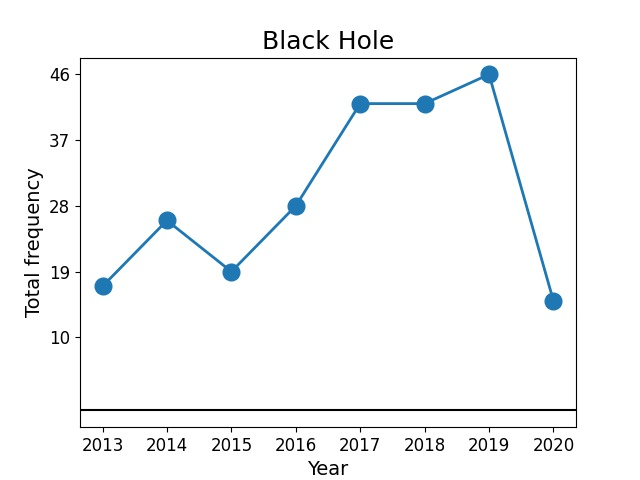
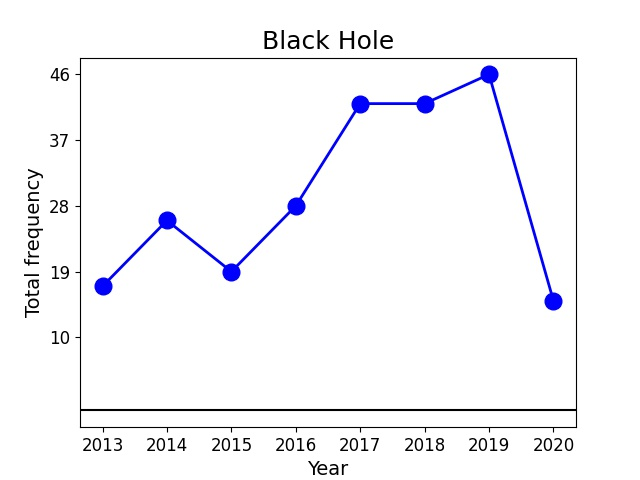
word cloud, bar chart, etc added

diff --git a/templates/trends.html b/templates/trends.html
@@ -32,22 +32,69 @@ body {
 <div class="col-sm-10 col-sm-offset-1">
 	<h2> Problem statement</h2>
 	   <body>
-	    <p>This project is geared towards young researchers such as undergraduates motivated to pursue graduate school. Selecting a research topic which might lead to a thesis can be a daunting challenge. There are many factors to be considered. While personal interests and experience matter, a balance must be struck with the currently available opportunities and future promise in any particular field. Within a field, being aware of rising trends, for e.g. 'Machine learning' in Physics, is also extremely important.
+	    <p>
+This project is geared towards young researchers such as undergraduates motivated to pursue graduate school. Undergraduate research experience is a major factor in graduate admissions. However, as a beginner, it is extremely challenging for an undergrad to identify the broad research topics and the fastest growing areas in any field he/she is interested in. Moreover, simply going through publication databases isn't a viable solution: every year thousands of papers are published in every research area in physics!
 </p>
 <p>
-<img src="https://www.meme-arsenal.com/memes/c098fd75956a601eff04312e8e8f133d.jpg" style="width:50%">
+This project attempts to answer some of these problems. I have identified and compared the buzzwords of two different years which gives us an indication of the rising trends in physics. Using topic modelling, I have identified broad research topics as well as sub-topics contained in them. An interested reader can not only get a clear view of the research landscape in any broad are in physics but also find out some of the specific questions that belong to any field. 
 </p>
-<h2>Solution</h2>
-<p>Using the <a href="https://arxiv.org">arxiv</a> database for physics, I have compared the buzz words in all of physics between two different years. We can see some emerging trends such as 'neural networks' and 'machine learning' as well as some topics that have stayed both stable and prolific over the years such as 'optics'.
+<h2>Rising Trends in Physics</h2>
+<p>Using the <a href="https://arxiv.org">arxiv</a> database for physics, I have compared the buzzwords in all areas of physics between two different years, 2010 (on the left) and 2020 (on the right). To create this comparison, I analyzed ~7400 publication titles from 2010 and ~17,000 from 2020. We can see some emerging trends such as 'neural networks' and 'machine learning' as well as some topics that have stayed both stable and prolific over the years such as 'optics'. This is an indication that machine learning is gaining popularity in physics and is a very useful skill to possess. Notice that <strong>COVID</strong> was also talked about frequently by physicists in 2020. </p>
+        <div class="row">
+         <div class="column">
+		<img src="../static/folder/2010_cloud.jpg" alt="2010_cloud" style="width:100%"/>
+  </div>
+  <div class="column">
+                <img src="../static/folder/2020_cloud.jpg" alt="2020_cloud" style="width:100%"/>
+         </div>
+    </div>
+
+</body>
+<p> In 2010, the top 10 most used words were:
+<br>
+'dynamic',
+ 'quantum',
+ 'network',
+ 'optical',
+ 'plasma',
+ 'theory',
+ 'state',
+ 'simulation',
+ 'electron',
+ 'particle'
 </p>
+<p> In 2020, the top 10 most used words are: 
+<br>
+'dynamic',
+ 'quantum',
+ 'network',
+ 'optical',
+ 'simulation',
+ 'flow',
+ 'COVID',
+ 'state',
+ 'Modeling',
+ 'Neural Network'
+</p>
+<h2>Most popular fields in Physics</h2>
 <p>
 A bar chart provided below compares the most active fields within physics between
-two different years. Comparing the 2015 and 2020 research trends, we see that topics
-such as Neural Networks, Machine Learning, and <strong>COVID(!?)</strong> are currently
-trending, and seem promising for the near future.
+2010 and 2020. The numbers on the X-axis are the publication count. Comparing the 2010 and 2020 research trends, we see that the field of 'Optics' stayed 
+the most active in a decade. In contrast, 'Applied Physics' has become more active recently whereas 
+'Physics and Society' has become less popular since 2010.
 </p>
-<h3>Trends: a closer look</h3>
+  <div class="row">
+         <div class="column">
+                <img src="../static/folder/2010_important_areas.jpg" alt="2010_imp_areas" style="width:100%"/>
+         </div>
+  <div class="column">
+                <img src="../static/folder/2020_important_areas.jpg" alt="2010_imp_areas" style="width:100%"/>
+  </div>
+ </div>
+
+<h2>Rising trends: a closer look</h2>
 	   </body>
+We can also look at the change in popularity of some key words/phrases over the years. Plotted below are the frequency vs. year (on the left in blue) and percentage increase from the previous year vs. year (on the right in red) of two phrases, such as 'Neural Network' (top panel) and 'Black Hole' (bottom panel) for example. Neural networks has seen a steady increase in popularity over the years, especially in the year 2017. Black holes, on the other hand, gained popularity between 2015 and 2017 which could be due to the discovery of binary black hole mergers by LIGO in 2015.  
           {% for error in errors %}
             <h4>{{ error }}</h4>
           {% endfor %}
@@ -57,6 +104,27 @@ trending, and seem promising for the near future.
              <img src="{{ image }}" style="width:100%">
 	 </div>
 	{% endfor %}
+<br>
+<br>
+<h2>Topic modeling </h2>
+<p>
+For topic identification, I have implemented an unsupervised machine learning algorithm known as Latent Dirichlet Allocation or LDA. In LDA, each word in a document is assigned a topic. Initially, this assignment is done randomly. To improve upon the assignment of topics to each word, we look at the probability of a word, <i>w</i>, belonging to a particular topic,<i>t</i>. This is calculated by making a subsample of all documents that are classified as a particular topic <i>t</i> and the number of documents in that subsample that contains the word <i>w</i>. The LDA then goes through each document in the corpus and calculates the probability that a topic <i>t</i> is contained in a document <i>d</i>. These two probabilities assign a new probability to every word in the document of belonging to a topic. Repeating this process many times gives us an equilibrium value of the probabilities associated with each word and document.
+</p>
+Below is a list of sub-topics I identified using LDA. I used 13,600 publication titles from the Astrophysics submissions of the year 2020.
+<br>  
+<br>
+Topic 1 (Globular Clusters): star formation, globular cluster, gammaray burst, cosmic ray, molecular cloud
+<br>
+Topic 2 (Cosmology): primordial black hole, dark matter, gravitational wave
+<br> 
+Topic 3 (Compact Objects): fast radio burst, neutron star, white dwarf
+<br>
+Topic 4 (Dwarf Galaxy Physics): dwarf galaxy, xray binary, magellanic cloud, stellar population, emission line
+<br>
+Topic 5 (Stellar Physics): star cluster, protoplanetary disk, supernova remnant, gaia dr, solar flare
+<br>
+<br>
+One can thus see some of the sub-fields and topics within them contained in the vast field of Astrophysics. This could be quite useful for undergrads as it gives them both a broad overview and some specific topics to explore in each sub-field.
     </div>
 </div>
 </div>

diff --git a/templates/about.html b/templates/about.html
@@ -1,30 +1,107 @@
-<!doctype html>
-<html lang="en">
+<!DOCTYPE html>
+<html>
   <head>
-    <meta charset="utf-8">
-    <meta name="viewport" content="width=device-width, initial-scale=1, shrink-to-fit=no">
-    <meta name="description" content="Skeleton application demoing Heroku and Flask integration.">
-    <meta name="author" content="@gotoariel">
-    <!-- <link rel="icon" href="favicon.ico"> -->
+    <title>Arxiv: Subjects and Titles</title>
+    <meta name="viewport" content="width=device-width, initial-scale=1.0">
+    <link href="//netdna.bootstrapcdn.com/bootstrap/3.1.1/css/bootstrap.min.css" rel="stylesheet" media="screen">
+    <style>
+      .container {
+        max-width: 1000px;
+      }
+.column {
+  float: left;
+  width: 50%;
+  padding: 5px;
+}
 
-    <title>Wilkommen, bienvenue, and welcome to Heroku!</title>
-
-    <!-- Bootstrap core CSS -->
-    <link rel="stylesheet" href="https://maxcdn.bootstrapcdn.com/bootstrap/3.3.7/css/bootstrap.min.css">
+/* Clearfix (clear floats) */
+.row::after {
+  content: "";
+  clear: both;
+  display: table;
+}
+body {
+  background-color: lightblue;
+}    </style>
   </head>
   <body>
     <div class="container">
       <div class="row">
-        <div class="col-lg-12 text-left">
-          <h2>About</h2>
-          <p><a href="/">Home</a></p>
-        </div>
-      </div>
+        <div class="col-sm-20 col-sm-offset-1">
+          <h1>SELECTING RESEARCH TOPICS EFFECTIVELY</h1>
+<div class="col-sm-10 col-sm-offset-1">
+	<h2> Problem statement</h2>
+	   <body>
+	    <p>This project is geared towards young researchers such as undergraduates motivated to pursue graduate school. Selecting a research topic which might lead to a thesis can be a daunting challenge. There are many factors to be considered. While personal interests and experience matter, a balance must be struck with the currently available opportunities and future promise in any particular field. Within a field, being aware of rising trends, for e.g. 'Machine learning' in Physics, is also extremely important.
+</p>
+<p>
+<img src="https://www.meme-arsenal.com/memes/c098fd75956a601eff04312e8e8f133d.jpg" style="width:50%">
+</p>
+<h2>Solution</h2>
+<p>Using the <a href="https://arxiv.org">arxiv</a> database for physics, I have compared the buzz words in all of physics between two different years. We can see some emerging trends such as 'neural networks' and 'machine learning' as well as some topics that have stayed both stable and prolific over the years such as 'optics'.
+</p>
+<p>
+A bar chart provided below compares the most active fields within physics between
+two different years. Comparing the 2015 and 2020 research trends, we see that topics
+such as Neural Networks, Machine Learning, and <strong>COVID(!?)</strong> are currently
+trending, and seem promising for the near future.
+</p>
+	   </body>
+     <h3>Year Comparison</h3>
+          <br>
+<form role="form" method="POST" action="/">
+  <label for="year1">Choose Year 1:</label>
+  <input id="input1" list="year1" name="number1" placeholder="Select year" style="max-width: 1000px;">
+  <datalist id="year1">
+    <option value="2010">
+    <option value="2011">
+    <option value="2012">
+    <option value="2013">
+    <option value="2014">
+    <option value="2015">
+    <option value="2016">
+    <option value="2017">
+    <option value="2018">
+    <option value="2019">
+    <option value="2020">
+  </datalist>
+<!--div-->
+  <label for="year2">Choose Year 2:</label>
+  <input id="input2" list="year2" name="number2" placeholder="Select year" style="max-width: 1000px;">
+  <datalist id="year2">
+    <option value="2010">
+    <option value="2011">
+    <option value="2012">
+    <option value="2013">
+    <option value="2014">
+    <option value="2015">
+    <option value="2016">
+    <option value="2017">
+    <option value="2018">
+    <option value="2019">
+    <option value="2020">
+  </datalist>
+  <input type="submit">
+          </form>
+          <br>
+          {% for error in errors %}
+            <h4>{{ error }}</h4>
+          {% endfor %}
+          <br>
+
+	<div class="row">
+	{% for image in plot %}
+	 <div class="column">
+             <img src="{{ image }}" style="width:100%">
+	 </div>
+	{% endfor %}
     </div>
-    <!-- Bootstrap core JavaScript
-    ================================================== -->
-    <!-- Placed at the end of the document so the pages load faster -->
-    <script src="https://cdnjs.cloudflare.com/ajax/libs/jquery/3.2.1/jquery.js"></script>
-    <script src="https://maxcdn.bootstrapcdn.com/bootstrap/3.3.7/js/bootstrap.min.js"></script>
+</div>
+</div>
+</div>
+</div>
+    <br><br>
+    <script src="//code.jquery.com/jquery-1.11.0.min.js"></script>
+    <script src="//netdna.bootstrapcdn.com/bootstrap/3.1.1/js/bootstrap.min.js"></script>
   </body>
 </html>

diff --git a/app.py b/app.py
@@ -132,29 +132,29 @@ def fig():
 def trends():
 	filename11 = trends_fig([14, 28, 70, 146, 237, 271]
 ,np.arange(2015,2021),
-'Neural Network','Total frequency')
+'Neural Network','Total frequency','nn_freq','b')
 
 	filename12 = trends_fig([100, 150, 108, 62, 14],np.arange(2016,2021),
-'Neural Network','% increase from last year')
+'Neural Network','% increase from last year','nn_inc_pct','r')
 
 	filename21 = trends_fig([17, 26, 19, 28, 42, 42, 46, 15]
 ,np.arange(2013,2021),
-'Black Hole','Total frequency')
+'Black Hole','Total frequency','bhole_freq','b')
 
 	filename22 = trends_fig([52, -26, 47, 50, 0, 9, -67],np.arange(2014,2021),
-'Black Hole','% increase from last year')
+'Black Hole','% increase from last year','bhole_inc_pct','r')
 	
 
 	return render_template('trends.html',trend_plots=[filename11,filename12,filename21,filename22])
 
-def trends_fig(y,x,plot_title,ylabel):
+def trends_fig(y,x,plot_title,ylabel,name,color):
         rise = y
         fig = Figure()
         x_range = x
         divs = int(abs(min(rise)-5 - max(rise)-20)/6.)
         y_range = np.arange(min(rise)-5,max(rise)+20,divs)
         ax = fig.add_subplot(1, 1, 1)
-        ax.plot(x_range,rise,marker='o',lw=2,markersize=12)
+        ax.plot(x_range,rise,marker='o',color=color,lw=2,markersize=12)
         ax.set_xticks(x_range)
         ax.set_yticks(y_range)
         ax.set_xticklabels(x_range,fontsize=12)
@@ -166,8 +166,8 @@ def trends_fig(y,x,plot_title,ylabel):
 
         canvas = FigureCanvas(fig)
         canvas.draw()
-        millis = int(round(time.time() * 1000))
-        filename = os.path.join(app.config['UPLOAD_FOLDER'], 'trend_' + str(millis) + '.jpg')
+        #millis = int(round(time.time() * 1000))
+        filename = os.path.join(app.config['UPLOAD_FOLDER'], 'trend_' + str(name) + '.jpg')
         fig.savefig(filename, format='jpg')
         return filename
 
